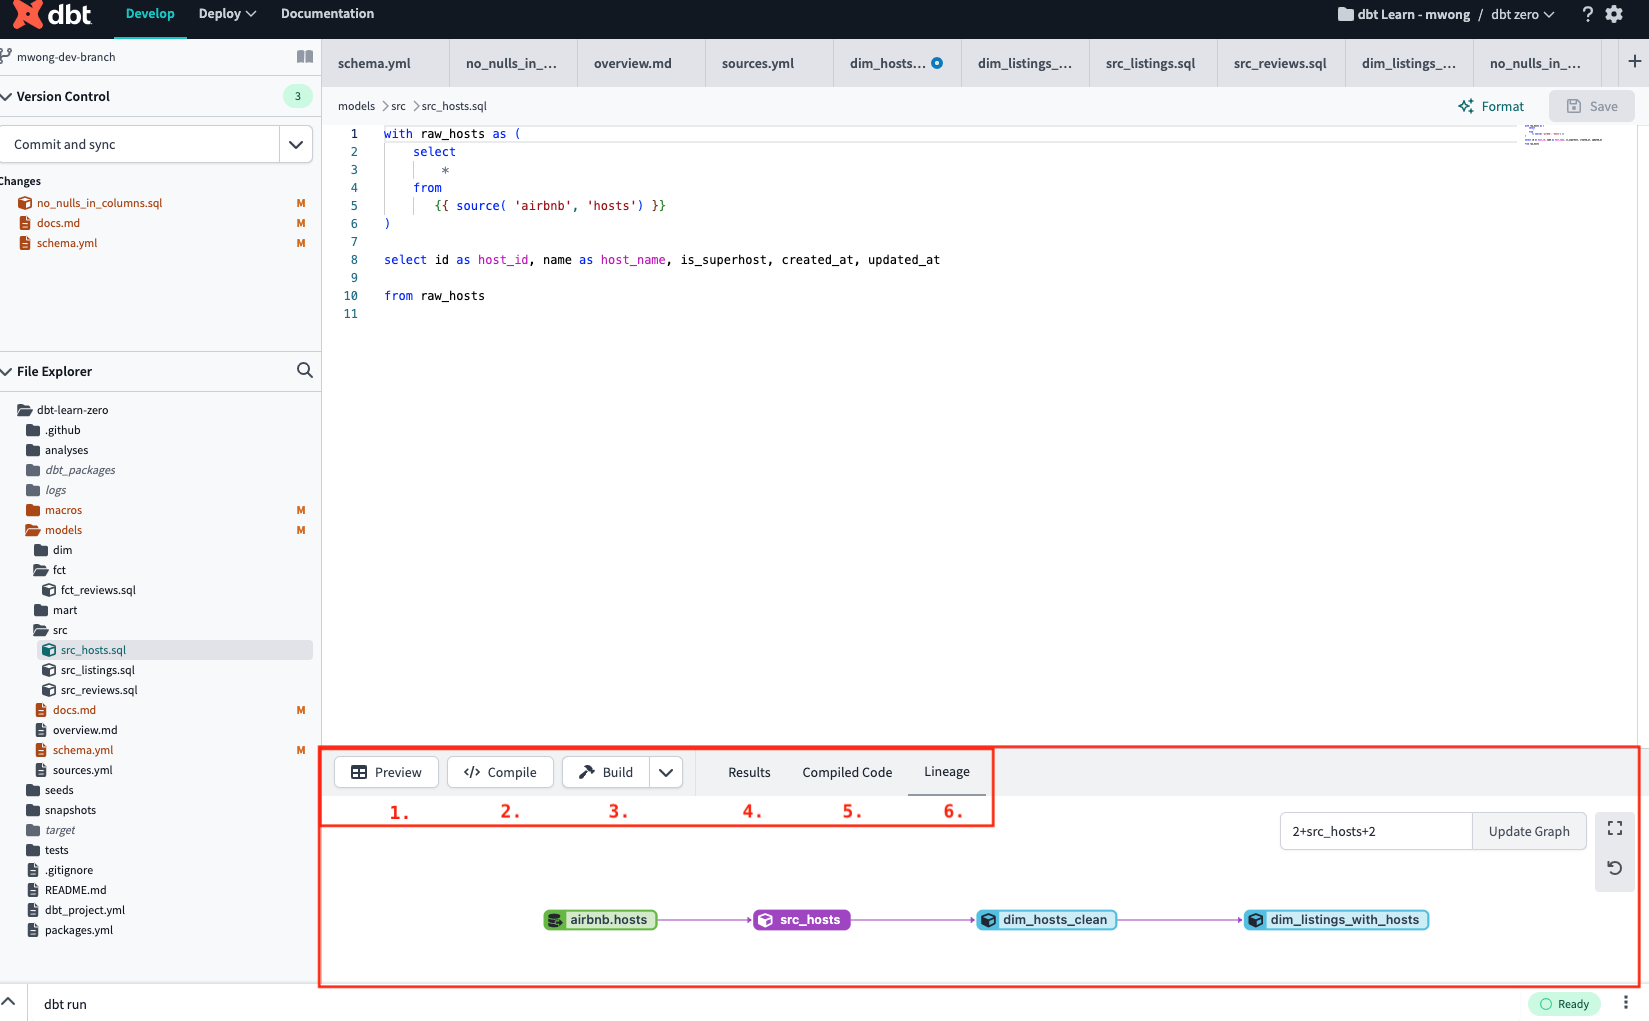
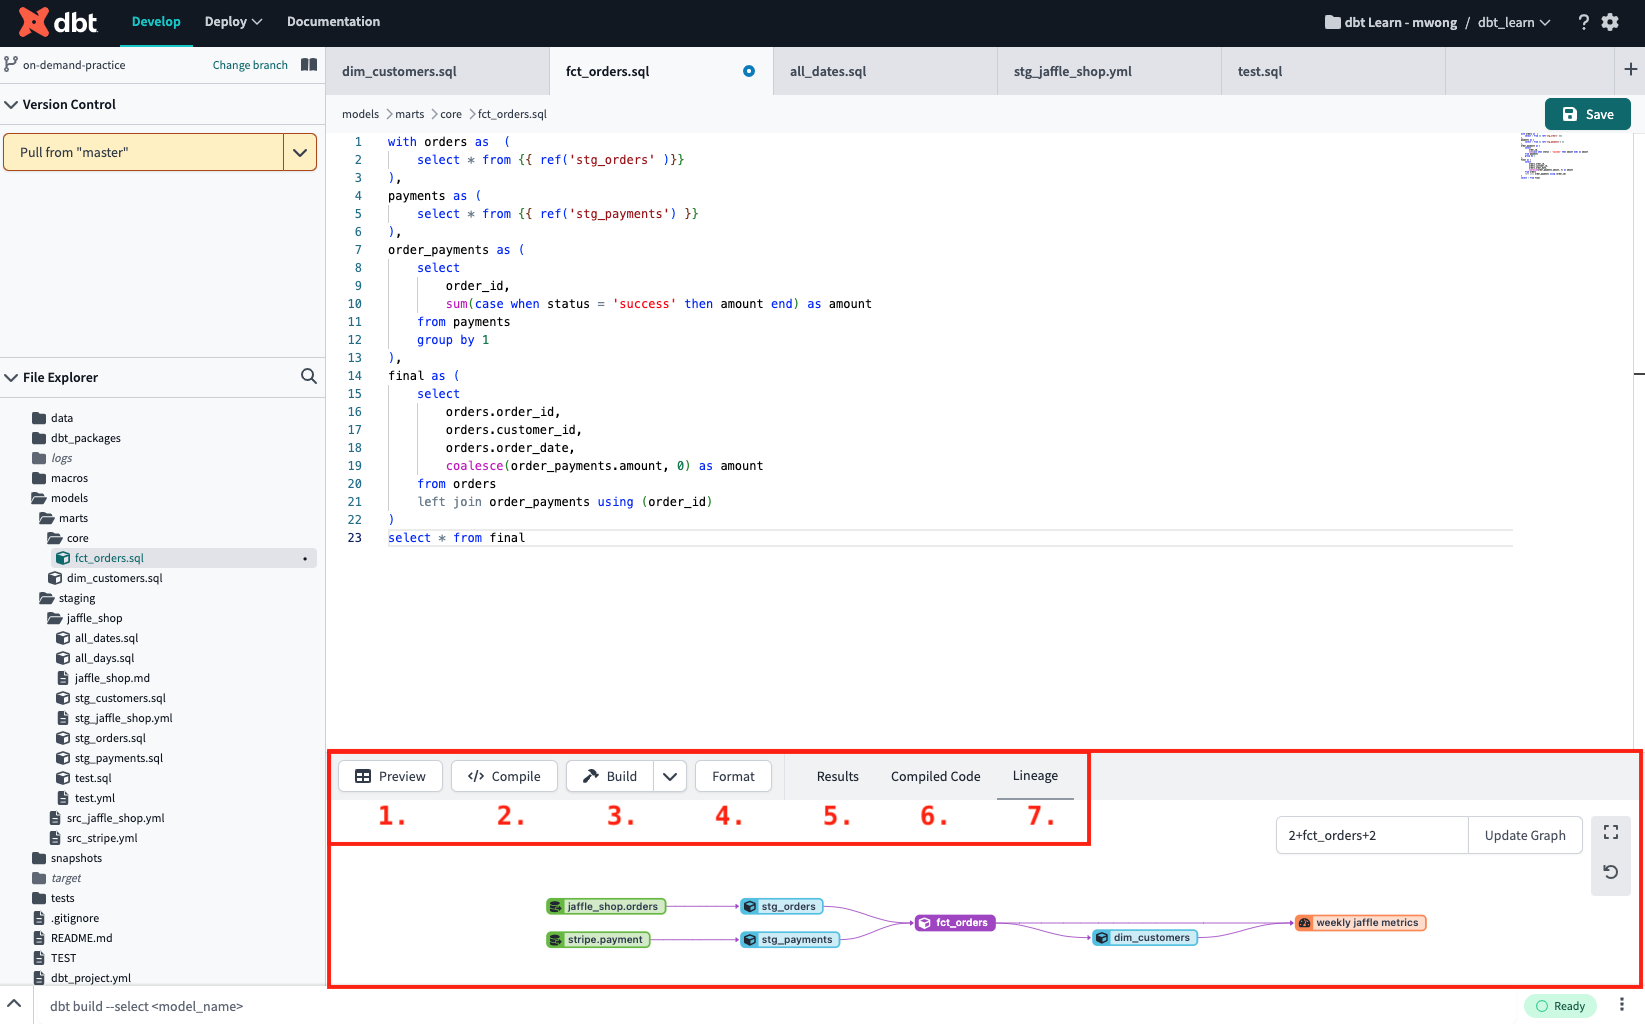
tweaks based on Leona's comments

diff --git a/website/docs/docs/cloud/dbt-cloud-ide/ide-glossary.md b/website/docs/docs/cloud/dbt-cloud-ide/ide-glossary.md
@@ -10,11 +10,13 @@ The [dbt Cloud IDE](/docs/cloud/dbt-cloud-ide/develop-in-the-cloud) is an interf
 
 This page offers comprehensive definitions and terminology of user interface elements, allowing you to navigate the IDE landscape with ease.
 
+<Lightbox src="/img/docs/dbt-cloud/cloud-ide/ide-basic-layout.jpg" width="100%" title="The Cloud IDE layout includes version control on the upper left, files/folders on the left, editor on the right an command/console at the bottom"/>
+
 ## Basic layout
 
 The IDE streamlines your workflow, and features a popular user interface layout with files and folders on the left, editor on the right, and command and console information at the bottom. 
 
-<Lightbox src="/img/docs/dbt-cloud/cloud-ide/ide-basic-layout.jpg" width="100%" title="The Cloud IDE layout includes version control on the upper left, files/folders on the left, editor on the right and command/console at the bottom"/>
+<Lightbox src="/img/docs/dbt-cloud/cloud-ide/ide-side-menu.jpg" width="30%" title="The Git repo link, documentation site button, Version Control menu, and File Explorer"/>
 
 The basic layout of the IDE landing page with the following areas:
 
@@ -24,7 +26,6 @@ The basic layout of the IDE landing page with the following areas:
 2. **Documentation site button &mdash;** Clicking the Documentation site book icon, located next to the Git repository link, leads to the dbt Documentation site. The site is powered by the latest dbt artifacts generated in the IDE using the `dbt docs generate` command from the Command bar.
 
 3. [**Version Control**](#editing-features) &mdash; The IDE's powerful Version Control section contains all git-related elements, including the Git actions button and the **Changes** section. 
-<Lightbox src="/img/docs/dbt-cloud/cloud-ide/ide-upper-left.jpg" width="40%" title="The Git repo link, documentation site button, and Version Control menu"/>
 
 4. **File Explorer &mdash;** The File Explorer shows the filetree of your repository. You can:
     - Click on any file in the filetree to open the file in the File Editor. 
@@ -37,54 +38,30 @@ The basic layout of the IDE landing page with the following areas:
       * Added (A) — The IDE detects added files
       * Deleted (D) — The IDE detects deleted files.
 
-<Lightbox src="/img/docs/dbt-cloud/cloud-ide/ide-file-explorer-menu.jpg" width="30%" title="Use the File Explorer to manage files, access menu options, and see changes made"/>
+<Lightbox src="/img/docs/dbt-cloud/cloud-ide/ide-cmd-status.jpg" width="120%" title="Use the Command bar to write dbt commands and the status button for the current IDE status"/>
 
 5. **Command bar &mdash;**  The Command bar, located in the lower left of the IDE, is used to invoke [dbt commands](/reference/dbt-commands). When a command is invoked, the associated logs are shown in the Invocation History Drawer.
 
 6. **IDE Status button &mdash;** The IDE Status button, located on the lower right of the IDE, displays the current IDE status. If there is an error in the status or in the dbt code that stops the project from parsing, the button will turn red and display "Error". If there aren't any errors, the button will display a green "Ready" status. To access the [IDE Status modal](#modals-and-menus), simply click on this button.
-<Lightbox src="/img/docs/dbt-cloud/cloud-ide/ide-cmd-status.jpg" width="120%" title="Use the Command bar to write dbt commands and the status button for the current IDE status"/>
+
 
 ## Editing features
 
 The IDE features some delightful tools and layouts to make it easier for you to write dbt code and collaborate with teammates. 
 
-<Lightbox src="/img/docs/dbt-cloud/cloud-ide/ide-editing.jpg" width="100%" title="Use the file editor, format and save button during your development workflow"/>
+<Lightbox src="/img/docs/dbt-cloud/cloud-ide/ide-editing.jpg" width="100%" title="Use the file editor, version control section, and save button during your development workflow"/>
 
 1. **File Editor &mdash;** The File Editor is where users edit code. Tabs break out the region for each opened file, and unsaved files are marked with a blue dot icon in the tab view.
 
-2. **Format button &mdash;** The editor has a **Format** button that can reformat the contents of your files. For SQL files, it uses either `sqlfmt` or `sqlfluff`, and for Python files, it uses `black`.
+2. **Save button &mdash;** The editor has a **Save** button that saves editable files. Pressing the button or using the Command-S or Control-S shortcut saves the file contents. You don't need to save to preview code results in the Console section, but it's necessary before changes appear in a dbt invocation. The File Editor tab shows a blue icon for unsaved changes.
 
-3. **Save button &mdash;** The editor has a **Save** button that saves editable files. Pressing the button or using the Command-S or Control-S shortcut saves the file contents. You don't need to save to preview code results in the Console section, but it's necessary before changes appear in a dbt invocation. The File Editor tab shows a blue icon for unsaved changes.
-
-4. **Version Control &mdash;** This menu contains all git-related elements, including the Git actions button. The button updates relevant actions based on your editor's state, such as prompting to pull remote changes, commit and sync when reverted commit changes are present, or creating a merge/pull request when appropriate. The dropdown menu on the Git actions button allows users to revert changes, refresh git state, create merge/pull requests, and change branches. You can also [resolve merge conflicts](/docs/collaborate/git/merge-conflicts) and for more info on git, refer to [Version control basics](/docs/collaborate/git/version-control-basics#the-git-button-in-the-cloud-ide).
+3. **Version Control &mdash;** This menu contains all git-related elements, including the Git actions button. The button updates relevant actions based on your editor's state, such as prompting to pull remote changes, commit and sync when reverted commit changes are present, or creating a merge/pull request when appropriate. The dropdown menu on the Git actions button allows users to revert changes, refresh git state, create merge/pull requests, and change branches. You can also [resolve merge conflicts](/docs/collaborate/git/merge-conflicts) and for more info on git, refer to [Version control basics](/docs/collaborate/git/version-control-basics#the-git-button-in-the-cloud-ide).
 
    - **Version Control Options menu &mdash;** Below the Git Actions button, the **Changes** section, which lists all file changes since the last commit. You can click on a change to open the Git Diff View to see the inline changes. You can also right-click any file and use the file-specific options in the Version Control Options menu.
 
 <Lightbox src="/img/docs/dbt-cloud/cloud-ide/version-control-options-menu.png" width="30%" title="Right-click edited files to access Version Control Options menu"/>
 
-### Console section
-The console section, located below the File editor, includes various console tabs and buttons to help you with tasks such as previewing, compiling, building, and viewing the <Term id="dag" />. Refer to the following sub-bullets for more details on the console tabs and buttons.
-<Lightbox src="/img/docs/dbt-cloud/cloud-ide/ide-console-overview.jpg" width="100%" title="The Console section is located below the File editor and has various tabs and buttons to help execute tasks"/>
-
-1. **Preview button &mdash;** When you click on the Preview button, it runs the SQL in the active file editor regardless of whether you have saved it or not, and sends the results to the Results console tab. To prevent the IDE from returning too much data and causing browser problems, a limit of 500 is automatically added to queries executed via the Preview Button. However, you can change this by adding `limit your_number` at the end of your SQL statement. For example, `SELECT * FROM` table `limit 100` will return up to 100 rows. Remember that you must write the `limit your_number` explicitly and cannot derive it from a macro.
-
-2. **Compile button &mdash;** The Compile button compiles the SQL code from the active File Editor, irrespective of its save status, and outputs it to the Compiled Code tab.
-
-3. **Build button &mdash;** The build button allows users to quickly access dbt commands related to the active model in the File Editor. The available commands include dbt build, dbt test, and dbt run, with options to include only the current resource, the resource and its upstream dependencies, the resource and its downstream dependencies, or the resource with all dependencies. This menu is available for all executable nodes.
-
-4. **Results tab &mdash;** The Results console tab displays the most recent Preview results in tabular format. 
-<Lightbox src="/img/docs/dbt-cloud/cloud-ide/results-console-tab.jpg" width="100%" title="Preview results show up in the Results console tab"/>
-
-5. **Compiled Code tab &mdash;** The Compile button triggers a compile invocation that generates compiled code, which is displayed in the Compiled Code tab.
-<Lightbox src="/img/docs/dbt-cloud/cloud-ide/compiled-code-console-tab.jpg" width="100%" title="Compile results show up in the Compiled Code tab"/>
-
-6. **Lineage tab &mdash;** The Lineage tab in the File Editor displays the active model's lineage or  <Term id="dag" />. By default, it shows two degrees of lineage in both directions (`2+model_name+2`), however you can change it to +model+ (full DAG).
-    - Double-click a node in the DAG to open that file in a new tab
-    - Expand the DAG and use node selection syntax (select or exclude) to view a subset of your DAG
-
-<Lightbox src="/img/docs/dbt-cloud/cloud-ide/lineage-console-tab.jpg" width="100%" title="View resource lineage in the Lineage tab"/>
-
-### Additional editing features
+## Additional editing features
 
 - **Minimap &mdash;** A Minimap (code outline) gives you a high-level overview of your source code, which is useful for quick navigation and code understanding. A file's minimap is displayed on the upper-right side of the editor. To quickly jump to different sections of your file, click the shaded area.
 <Lightbox src="/img/docs/dbt-cloud/cloud-ide/ide-minimap.jpg" width="100%" title="Use the Minimap for quick navigation and code understanding"/>
@@ -101,8 +78,38 @@ The console section, located below the File editor, includes various console tab
 - **CSV Preview console tab &mdash;** The CSV Preview console tab displays the data from your CSV file in a table, which updates automatically as you edit the file in your seed directory.
 <Lightbox src="/img/docs/dbt-cloud/cloud-ide/ide-csv.jpg" width="100%" title="View csv code in the CSV Preview console tab below the Editor tab."/>
 
+## Console section
+The console section, located below the File editor, includes various console tabs and buttons to help you with tasks such as previewing, compiling, building, and viewing the <Term id="dag" />. Refer to the following sub-bullets for more details on the console tabs and buttons.
+<Lightbox src="/img/docs/dbt-cloud/cloud-ide/ide-console-overview.jpg" width="100%" title="The Console section is located below the File editor and has various tabs and buttons to help execute tasks"/>
+
+1. **Preview button &mdash;** When you click on the Preview button, it runs the SQL in the active file editor regardless of whether you have saved it or not, and sends the results to the Results console tab. To prevent the IDE from returning too much data and causing browser problems, a limit of 500 is automatically added to queries executed via the Preview Button. However, you can change this by adding `limit your_number` at the end of your SQL statement. For example, `SELECT * FROM` table `limit 100` will return up to 100 rows. Remember that you must write the `limit your_number` explicitly and cannot derive it from a macro.
+
+2. **Compile button &mdash;** The Compile button compiles the SQL code from the active File Editor, irrespective of its save status, and outputs it to the Compiled Code tab.
+
+3. **Build button &mdash;** The build button allows users to quickly access dbt commands related to the active model in the File Editor. The available commands include dbt build, dbt test, and dbt run, with options to include only the current resource, the resource and its upstream dependencies, the resource and its downstream dependencies, or the resource with all dependencies. This menu is available for all executable nodes.
+
+3. **Format button &mdash;** The editor has a **Format** button that can reformat the contents of your files. For SQL files, it uses either `sqlfmt` or `sqlfluff`, and for Python files, it uses `black`.
+
+5. **Results tab &mdash;** The Results console tab displays the most recent Preview results in tabular format. 
+<Lightbox src="/img/docs/dbt-cloud/cloud-ide/results-console-tab.jpg" width="100%" title="Preview results show up in the Results console tab"/>
+
+6. **Compiled Code tab &mdash;** The Compile button triggers a compile invocation that generates compiled code, which is displayed in the Compiled Code tab.
+<Lightbox src="/img/docs/dbt-cloud/cloud-ide/compiled-code-console-tab.jpg" width="100%" title="Compile results show up in the Compiled Code tab"/>
+
+7. **Lineage tab &mdash;** The Lineage tab in the File Editor displays the active model's lineage or  <Term id="dag" />. By default, it shows two degrees of lineage in both directions (`2+model_name+2`), however you can change it to +model+ (full DAG).
+    - Double-click a node in the DAG to open that file in a new tab
+    - Expand the DAG and use node selection syntax (select or exclude) to view a subset of your DAG
+
+<Lightbox src="/img/docs/dbt-cloud/cloud-ide/lineage-console-tab.jpg" width="100%" title="View resource lineage in the Lineage tab"/>
+
 ## Invocation history
-The Invocation History Drawer stores information on dbt invocations in the IDE. Open the drawer by clicking the `^` icon next to the Command bar on the lower left of the page or by typing a dbt command.
+The Invocation History Drawer stores information on dbt invocations in the IDE. When you invoke a command (like execute a dbt command such as `dbt run`), the associated logs are displayed in the Invocation History Drawer. 
+
+You can open the drawer multiple ways: 
+- Clicking the `^` icon next to the Command bar on the lower left of the page
+- Typing a dbt command and pressing enter
+- Or pressing Control-backtick (or Ctrl + `)
+
 <Lightbox src="/img/docs/dbt-cloud/cloud-ide/ide-inv-history-drawer.jpg" width="100%" title="The Invocation History Drawer returns a log and detail of all your dbt Cloud invocations."/>
 
 1. **Invocation History list &mdash;** The left-hand panel of the Invocation History Drawer displays a list of previous invocations in the IDE, including the command, branch name, command status, and elapsed time.
